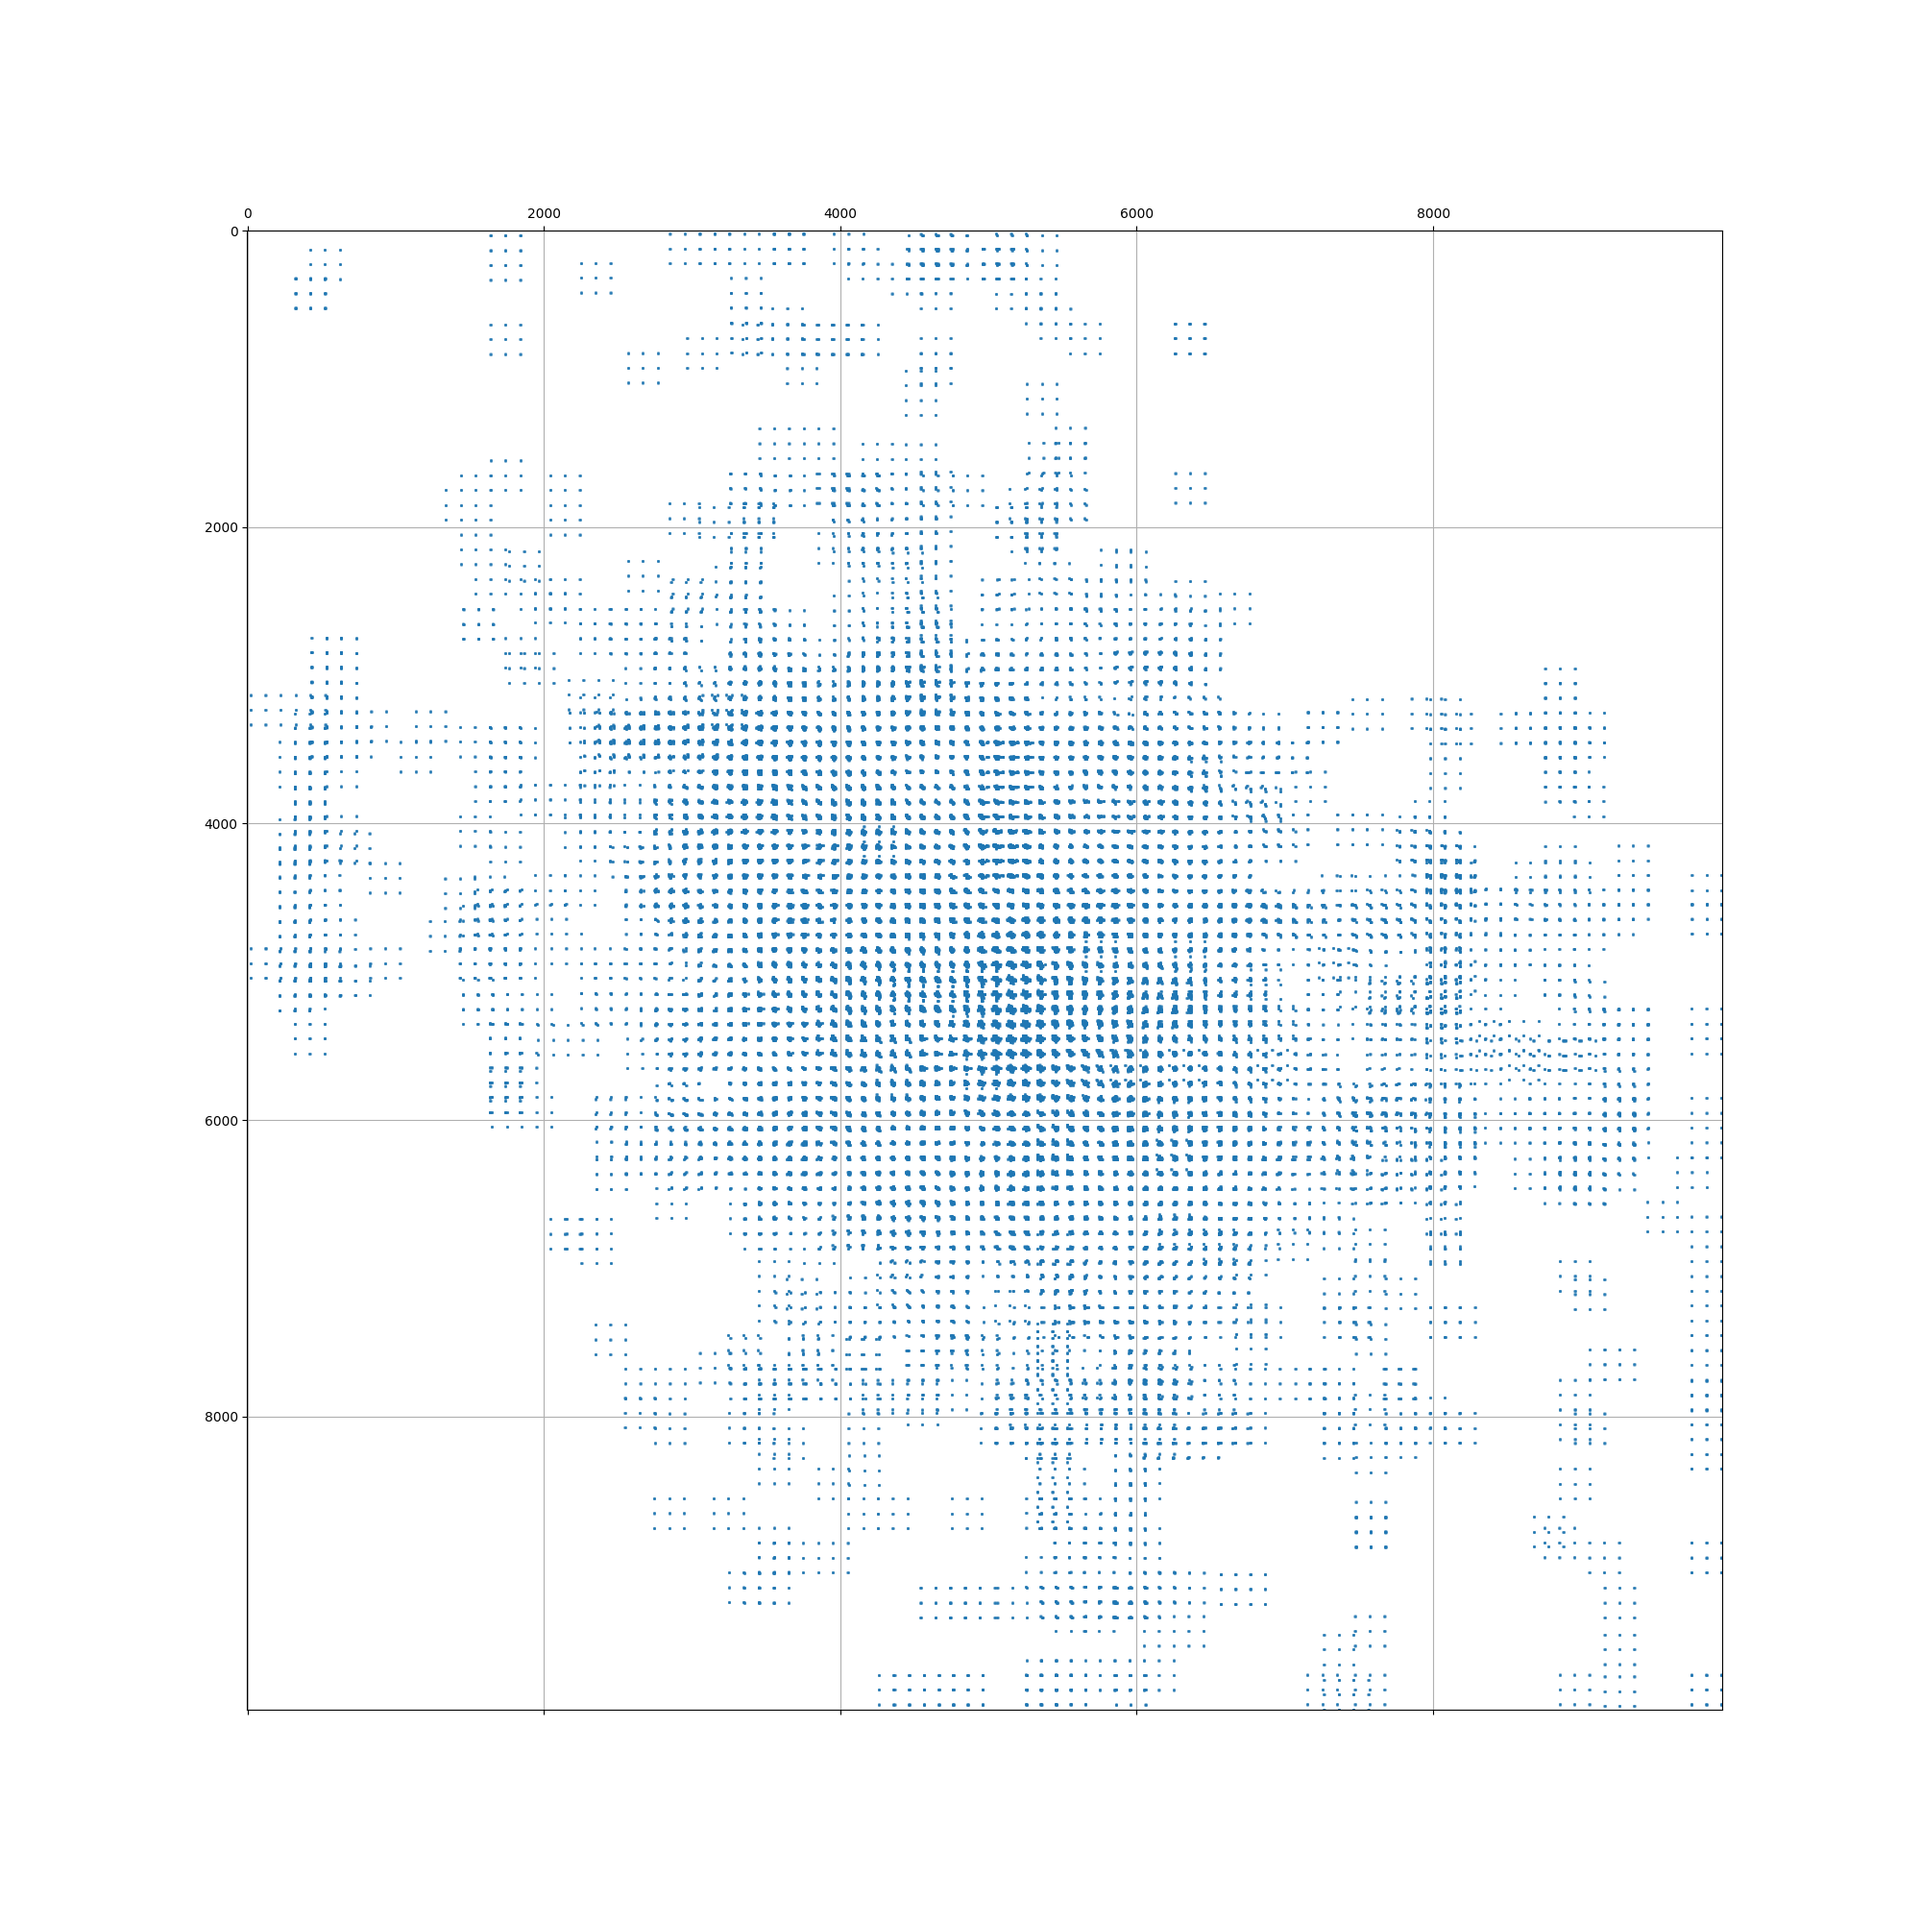
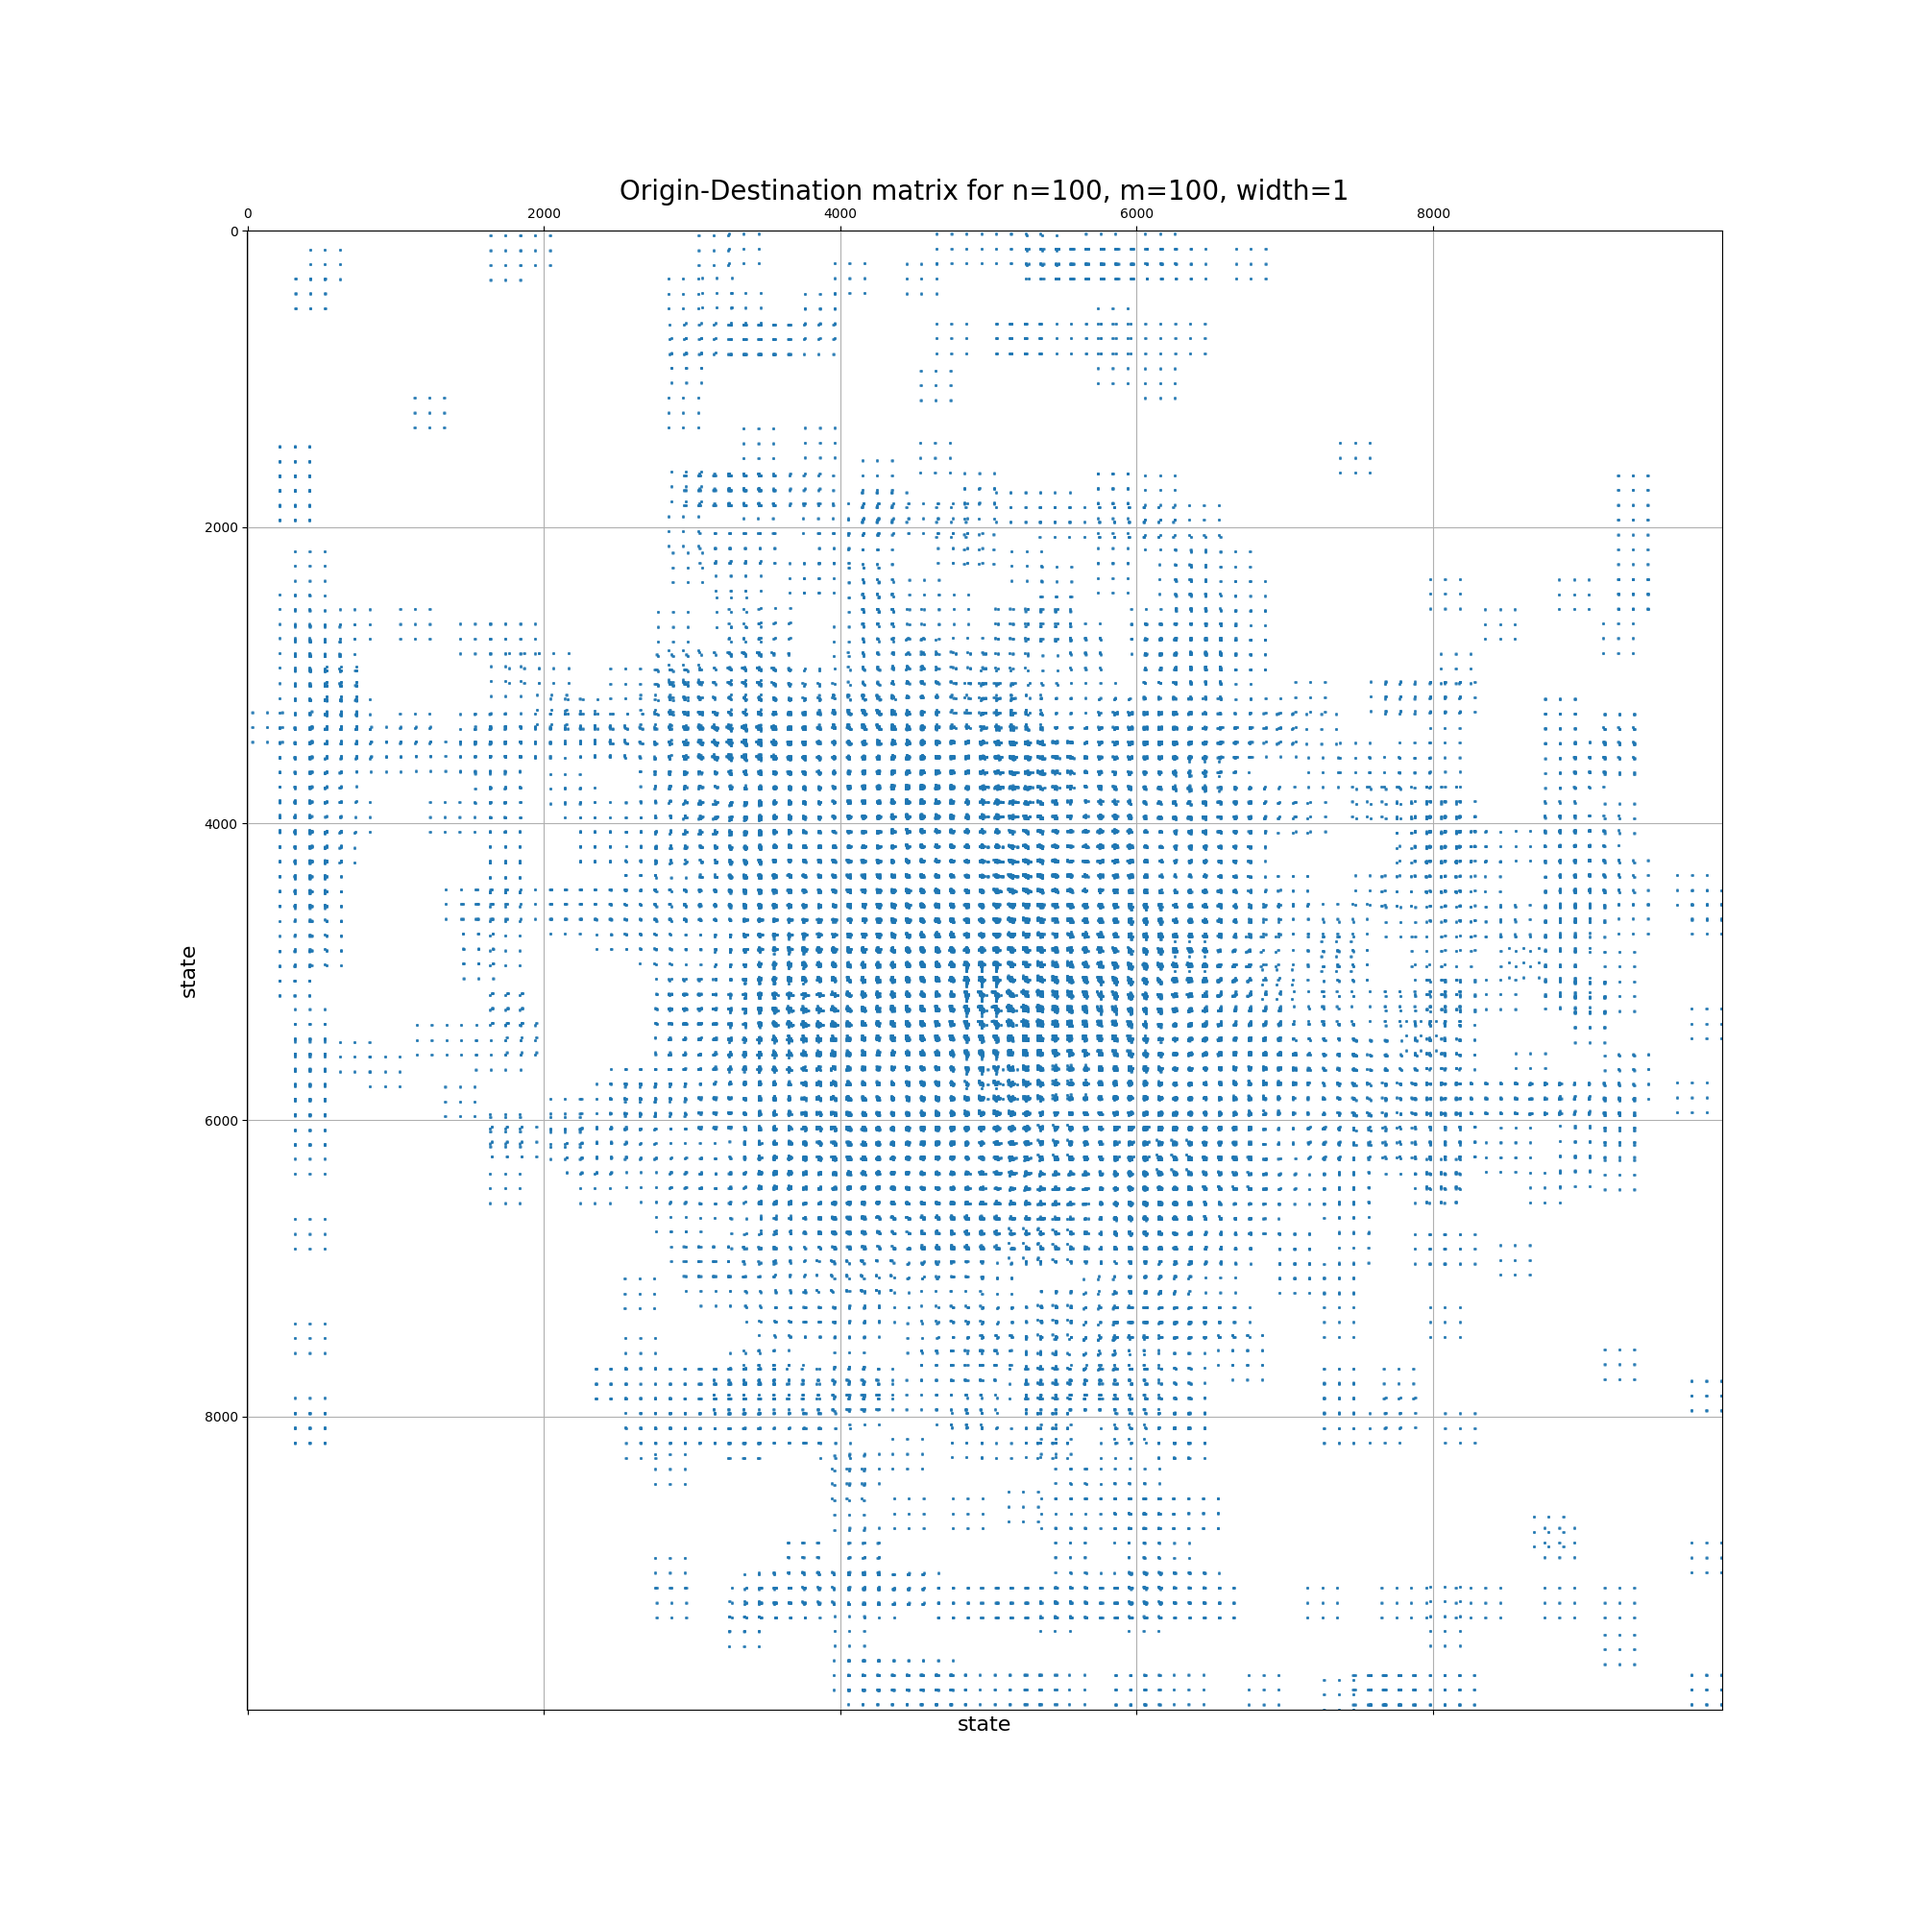
making  docs

diff --git a/distributed_trajectories/distributed_trajectories.py b/distributed_trajectories/distributed_trajectories.py
@@ -22,12 +22,12 @@ from pyspark.sql.types import StructType, StructField,\
 
 from  pyspark.sql import  Window
 
-from  consts  import  beijing_lat_box,  beijing_lon_box, lat_cells, lon_cells, width
+from  .consts  import  beijing_lat_box,  beijing_lon_box, lat_cells, lon_cells, width
 
-from OD import  OD
-from TM import TM
+from .OD import  OD
+from .TM import TM
 
-from udfs import   middle_interval_for_x
+from .udfs import   middle_interval_for_x
 
 
 
@@ -41,10 +41,6 @@ class PrepareDataset:
     """
     reading, filtering and preparing Dataset
     """
-
-    # beijing_lat_box = [39.6, 40.2]
-    # beijing_lon_box = [116.1, 116.7]
-
 
     def __init__(self, path):
         """

diff --git a/distributed_trajectories/udfs.py b/distributed_trajectories/udfs.py
@@ -4,6 +4,7 @@
 """
 
 from math import  ceil
+import   numpy as np
 
 
 
@@ -82,10 +83,10 @@ def d1_state_vector(i,j, width, m, n):
 
         d2 = d2_coords(i, j, width)
         # print(d2)
-#         X,Y = make_mesh(width)
-#         vals = put_gauss_on_mesh(X,Y)
+        X,Y = make_mesh(width)
+        vals = put_gauss_on_mesh(X,Y)
         # print(vals)
-        vals = [ 0.011, 0.084,  0.011, 0.084, 0.62, 0.084, 0.011, 0.084, 0.011]
+        # vals = [ 0.011, 0.084,  0.011, 0.084, 0.62, 0.084, 0.011, 0.084, 0.011]
         d2_vals = list(zip(d2,vals))
 
 

diff --git a/distributed_trajectories/TM.py b/distributed_trajectories/TM.py
@@ -8,8 +8,8 @@ import pyspark.sql.functions as F
 from pyspark.sql import Window
 from pyspark.sql.types import ArrayType, FloatType
 
-from udfs import d1_state_vector, updates_to_the_transition_matrix
-from consts import width, lat_cells, lon_cells
+from .udfs import d1_state_vector, updates_to_the_transition_matrix
+from .consts import width, lat_cells, lon_cells
 
 class TM:
     """

diff --git a/distributed_trajectories/OD.py b/distributed_trajectories/OD.py
@@ -7,8 +7,8 @@ import  pyspark.sql.functions as F
 from pyspark.sql import Window
 
 
-from udfs  import  d1_state_vector, updates_to_the_transition_matrix
-from consts import  width, lat_cells, lon_cells, OD_time_frame
+from .udfs  import  d1_state_vector, updates_to_the_transition_matrix
+from .consts import  width, lat_cells, lon_cells, OD_time_frame
 
 class OD:
     """
